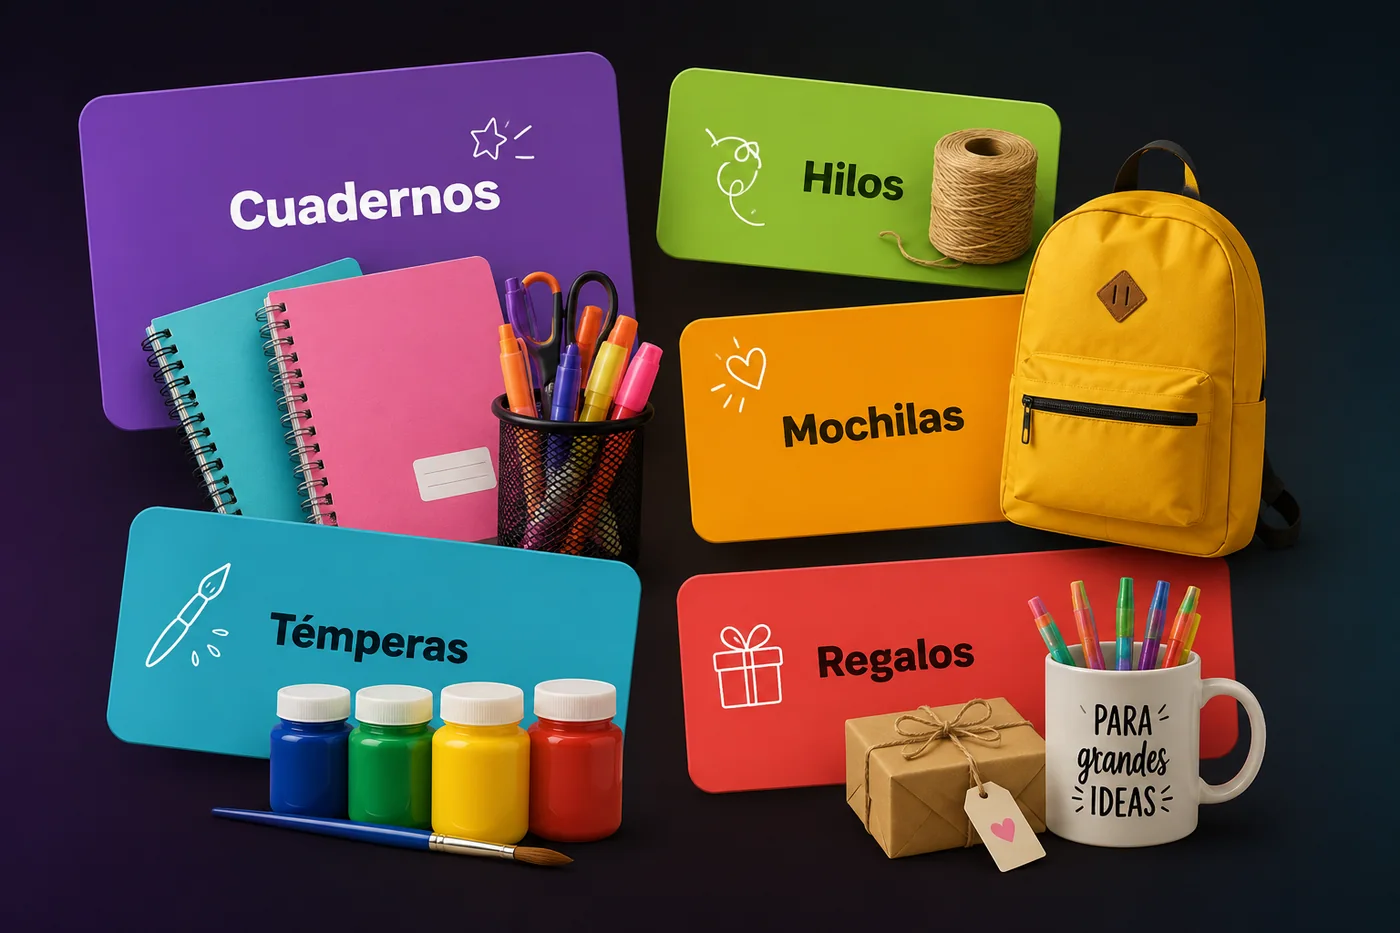
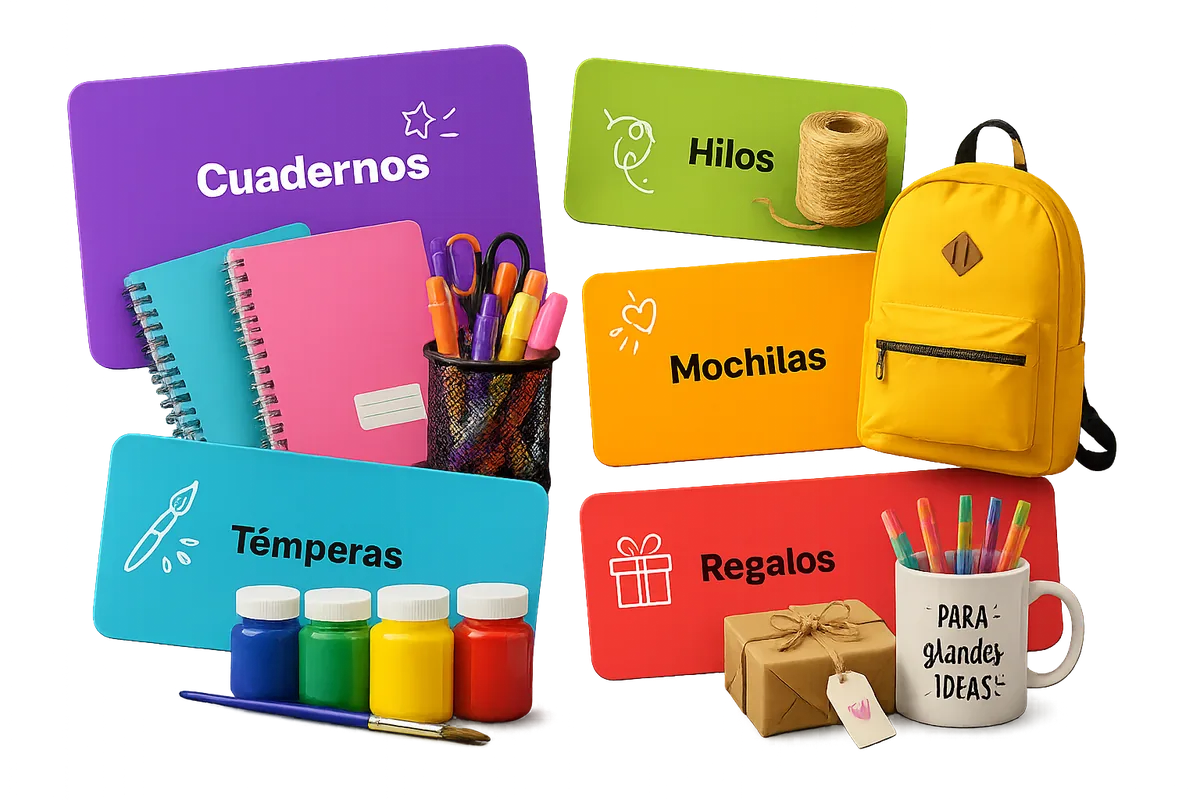
fix(tienda): la imagen de portada va recortada y se apoya sobre el negro
La version anterior era opaca y su fondo negro no era exactamente el de la
seccion, asi que se veia el rectangulo: se leia como una foto pegada encima en
vez de como parte de la pagina. Se habia tapado con una mascara que le
desvanecia los bordes.

Ahora la imagen viene con el fondo recortado de verdad (40% de los pixeles
transparentes, sin flecos), apoya directamente sobre el negro y no hay nada que
disimular. La mascara se saca: con el recorte real sobra, y ademas se comia las
esquinas del dibujo.

244 kB a 1200 px contra los 2.602 kB del PNG. Pesa mas que la opaca de antes
porque el canal alfa comprime peor, pero solo se carga de 1000 px para arriba.

diff --git a/tienda/src/estilos/app.css b/tienda/src/estilos/app.css
@@ -104,11 +104,15 @@
   display: none;
   animation: portada-entra var(--m-lento) var(--curva) backwards;
 }
+/* La imagen viene recortada, con el fondo transparente, asi que apoya
+   directamente sobre el negro de la seccion y no hay rectangulo que disimular.
+   La version anterior era opaca y necesitaba una mascara que le desvaneciera los
+   bordes; con el recorte de verdad esa mascara sobra y ademas comeria las
+   esquinas del dibujo. */
 .portada__imagen img {
   display: block;
   width: 100%;
   height: auto;
-  border-radius: var(--r-lg);
 }
 @keyframes portada-entra {
   from { opacity: 0; transform: translateY(16px) scale(.98); }

diff --git a/tienda/src/paginas/inicio.js b/tienda/src/paginas/inicio.js
@@ -23,7 +23,7 @@ import { esc } from '../formato.js';
 function ilustracion() {
   return `
     <div class="portada__imagen" aria-hidden="true">
-      <img src="/portada.webp" alt="" width="1400" height="933"
+      <img src="/portada.webp" alt="" width="1200" height="800"
            fetchpriority="high" decoding="async">
     </div>`;
 }
